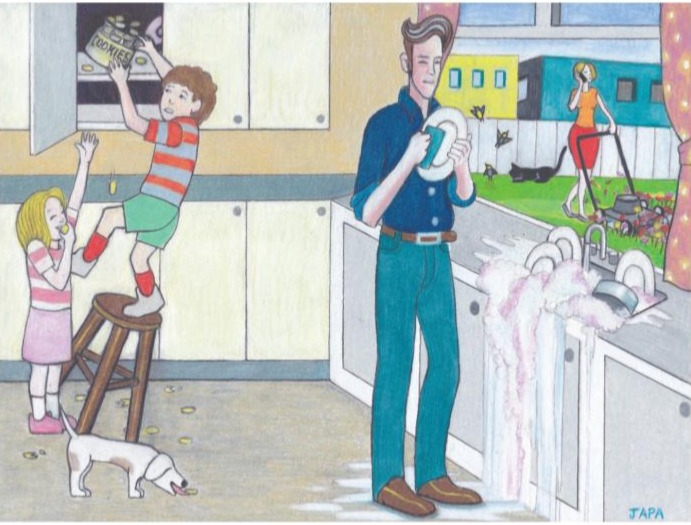
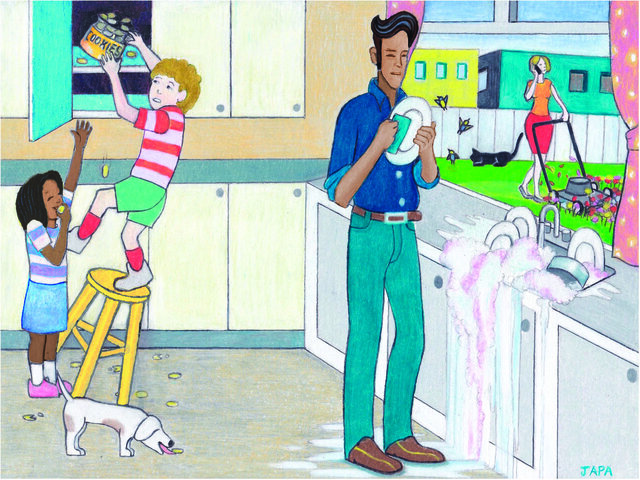
updated merge

diff --git a/src/rcp_task_acquisition/tasks/NaturalisticSpeech/NaturalisticSpeech.py b/src/rcp_task_acquisition/tasks/NaturalisticSpeech/NaturalisticSpeech.py
@@ -4,7 +4,7 @@ from PIL import Image
 from psychopy import core, visual
 
 from rcp_task_acquisition.tasks import bases
-from rcp_task_acquisition.tasks.NaturalisticSpeech.constants import IMG_DIR
+from rcp_task_acquisition.tasks.NaturalisticSpeech.constants import IMG_DIR, NON_IMAGE_TASKS
 from rcp_task_acquisition.utils.logger import get_logger
 
 logger = get_logger("./tasks/NaturalisticSpeech")
@@ -21,44 +21,47 @@ class NaturalisticSpeech(bases.StimulusBase):
             2200  # not technically screen width but we dont want to cover the photodiode
         )
         self.screen_height = 1440
+        self.show_image = False
+        
 
     def present(self, test=True):
         # Load and draw the photo being presented
+        
         self.timer.value = 0
-        if not self.photo:
-            logger.warning("No Photo is selected")
-            return
-
-        self.trial += 1
-        logger.debug(self.photo)
-
-        with Image.open(self.photo) as img:
-            width, height = img.size
-            logger.debug(f"Width: {width}, Height: {height}")
-        new_height = (self.screen_width / width) * height
-        new_width = self.screen_width
-        if new_height > self.screen_height:
-            new_width = (self.screen_height / height) * width
-            new_height = self.screen_height
-        logger.debug(f"width: {new_width}, height: {new_height}")
+        if self.show_image:
+            if not self.photo:
+                logger.warn("No Photo is selected")
+                return
+    
+            
+            
+            logger.debug(self.photo)
+            
+            with Image.open(self.photo) as img:
+                width, height = img.size
+                logger.debug(f"Width: {width}, Height: {height}")
+            new_height = (self.screen_width/width)*height
+            new_width = self.screen_width
+            if new_height > self.screen_height:
+                new_width = (self.screen_height/height)*width
+                new_height = self.screen_height
+            logger.debug(f"width: {new_width}, height: {new_height}")
+            stim = visual.ImageStim(self.display, image=self.photo, name=self.photo, size=[new_width, new_height], units='pix')
+        self.trial+=1
         self.photo_dict[f"trial_{self.trial}"] = self.photo
-        stim = visual.ImageStim(
-            self.display,
-            image=self.photo,
-            name=self.photo,
-            size=[new_width, new_height],
-            units="pix",
-        )
+        
         self.play_tone()
         # switch the photodiode patch to be "On" while the photo is being shown
         self.display.switch_patch()
         self.display.draw_patch()
-        stim.draw()
+        if self.show_image:
+            stim.draw()
         self.display.flip()
 
         clock = core.Clock()
         while self.finish.value == 0:
-            stim.draw()
+            if self.show_image:
+                stim.draw()
             self.display.draw_patch()
             self.display.flip()
             self.timer.value = int(clock.getTime())
@@ -76,4 +79,10 @@ class NaturalisticSpeech(bases.StimulusBase):
 
     def update_data(self, trial_data):
         photo = trial_data[0]
-        self.photo = os.path.join(IMG_DIR, photo)
+        logger.debug(f"photo: {photo}, nonimage_tasks: {NON_IMAGE_TASKS}")
+        if photo in NON_IMAGE_TASKS:
+            self.photo = photo
+            self.show_image = False
+        else:
+            self.photo = os.path.join(IMG_DIR, photo)
+            self.show_image = True

diff --git a/src/rcp_task_acquisition/tasks/NaturalisticSpeech/panel.py b/src/rcp_task_acquisition/tasks/NaturalisticSpeech/panel.py
@@ -36,7 +36,6 @@ class NaturalisticSpeechPanel(TrialPanel):
         Set up the naturalistic speech panel
         Returns:
             message (wx dialog panel)
-
         """
         self.image_names = os.listdir(c.IMG_DIR)
 
@@ -47,7 +46,11 @@ class NaturalisticSpeechPanel(TrialPanel):
             except Exception as e:
                 logger.error(f"Unable to load {image}, Error: {e}")
 
-        self.image_choice = wx.Choice(self, id=wx.ID_ANY, choices=self.image_names, size=(310, -1))
+        self.image_names += c.NON_IMAGE_TASKS
+        self.image_choice= wx.Choice(self, 
+                                       id=wx.ID_ANY, 
+                                       choices=self.image_names,
+                                       size=(310, -1))
 
         self.image_choice.SetSelection(self.selection)
 
@@ -138,9 +141,11 @@ class NaturalisticSpeechPanel(TrialPanel):
             self.seconds_text.SetLabel(f"Time: {self.display_mins} mins, {self.display_secs} secs")
 
     def update_image(self, event):
-
         self.selection = self.image_choice.GetSelection()
-        wx_image = wx.Image(self.image_path[self.selection], wx.BITMAP_TYPE_ANY)
+        if self.selection >= len(self.image_path):
+            wx_image = wx.Image(250, 250, clear=True)
+        else:
+            wx_image = wx.Image(self.image_path[self.selection], wx.BITMAP_TYPE_ANY)
         wx_image = wx_image.Scale(250, 150)
         wx_image.ConvertToBitmap()
 

diff --git a/src/rcp_task_acquisition/tasks/NaturalisticSpeech/constants.py b/src/rcp_task_acquisition/tasks/NaturalisticSpeech/constants.py
@@ -2,4 +2,7 @@ import os
 
 from rcp_task_acquisition.utils.constants import CODE_DIR
 
-IMG_DIR = os.path.join(CODE_DIR, "tasks", "NaturalisticSpeech", "stimuli")
+
+IMG_DIR = os.path.join(CODE_DIR, "tasks", "NaturalisticSpeech","stimuli")
+NON_IMAGE_TASKS = ["Personal Narrative-Live Event", "Procedural Description-PB&J", "Passage Reading-Grandfather", "Passage Reading-Rainbow"]
+
